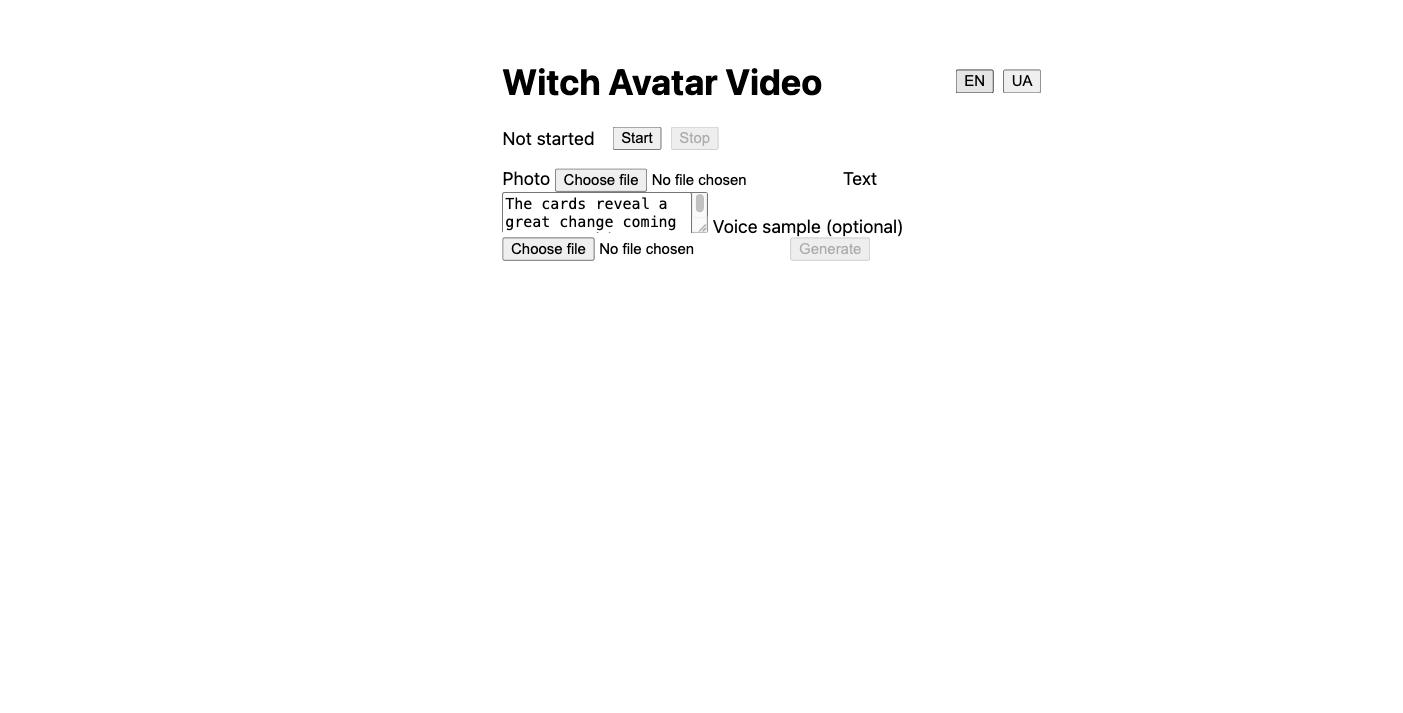
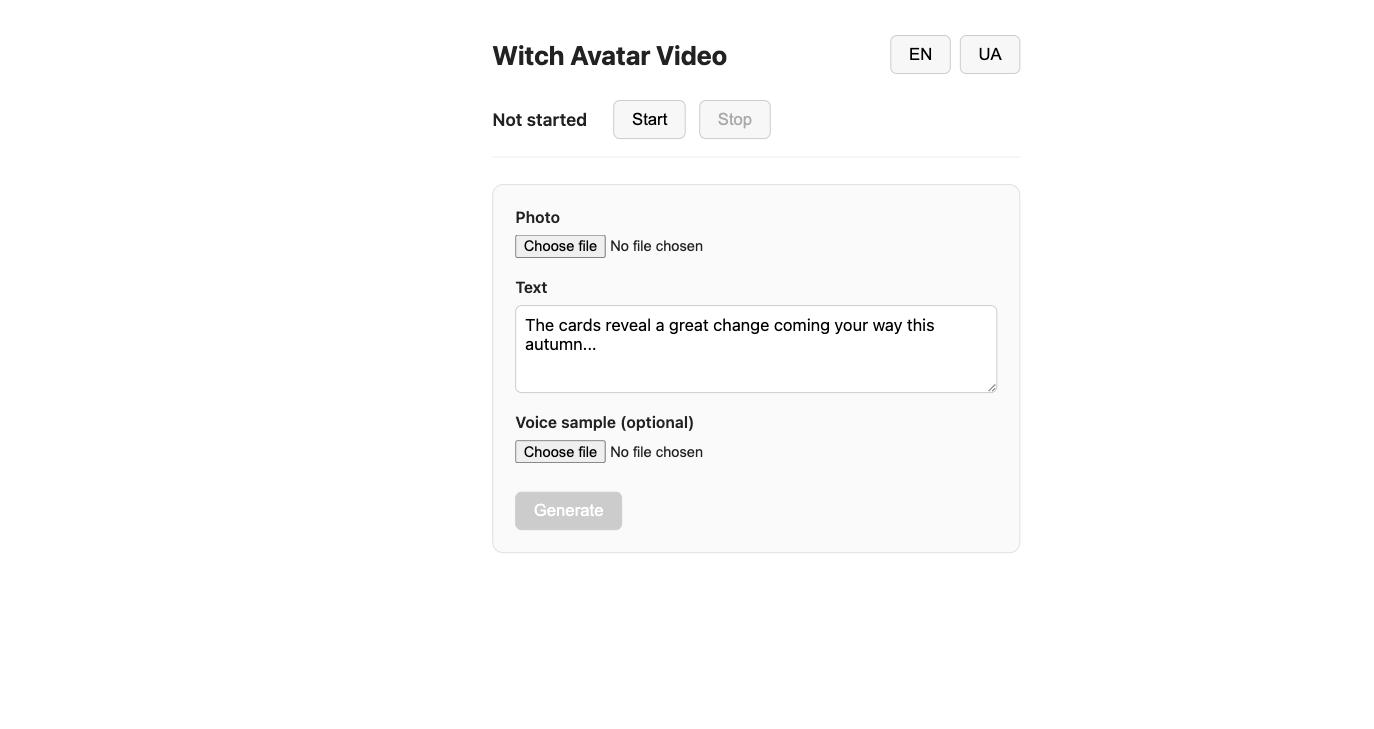
fix(webui): style the generate form and fix flex-layout override
style.css was a 7-line skeleton with no styling for the form itself
(unstyled labels/inputs, no spacing, no card container), so once
revealed the fields ran together on wrapped lines. Separately,
app.js was toggling generate-form's inline display to "block",
which permanently overrode the CSS's `display:flex` (inline style
always wins), so the intended column layout never applied even
after adding real styles. Fixed the JS to set "flex" and added
minimal card/spacing/button styling. Refreshed the README
screenshots to match.

Claude-Session: https://claude.ai/code/session_012Q8dZ6VonVF3QikgwjQVZj

diff --git a/webui/frontend/style.css b/webui/frontend/style.css
@@ -1,7 +1,68 @@
-body { font-family: system-ui, sans-serif; max-width: 480px; margin: 2rem auto; padding: 0 1rem; }
-header { display: flex; justify-content: space-between; align-items: center; }
+body { font-family: system-ui, sans-serif; max-width: 480px; margin: 2rem auto; padding: 0 1rem; color: #222; }
+header { display: flex; justify-content: space-between; align-items: center; margin-bottom: 1.5rem; }
+h1 { font-size: 1.5rem; margin: 0; }
 .lang-switch button { margin-left: 0.25rem; }
-#session-controls { display: flex; gap: 0.5rem; align-items: center; margin-bottom: 1rem; }
-#generate-form { display: flex; flex-direction: column; gap: 0.5rem; }
+
+button {
+  padding: 0.5rem 1rem;
+  border: 1px solid #ccc;
+  border-radius: 6px;
+  background: #f7f7f7;
+  cursor: pointer;
+  font-size: 0.95rem;
+}
+button:hover:not(:disabled) { background: #eee; }
+button:disabled { color: #aaa; cursor: not-allowed; }
+
+#session-controls {
+  display: flex;
+  gap: 0.75rem;
+  align-items: center;
+  margin-bottom: 1.5rem;
+  padding-bottom: 1rem;
+  border-bottom: 1px solid #eee;
+}
+#status-label { font-weight: 600; }
+#elapsed-label { color: #777; font-size: 0.9rem; }
+
+#generate-form {
+  display: flex;
+  flex-direction: column;
+  gap: 0.35rem;
+  padding: 1.25rem;
+  border: 1px solid #e0e0e0;
+  border-radius: 10px;
+  background: #fafafa;
+}
+#generate-form label {
+  display: block;
+  font-weight: 600;
+  font-size: 0.9rem;
+  margin-top: 0.75rem;
+}
+#generate-form label:first-child { margin-top: 0; }
+#generate-form input[type="file"] { margin-top: 0.15rem; }
+#generate-form textarea {
+  width: 100%;
+  min-height: 5rem;
+  margin-top: 0.15rem;
+  padding: 0.5rem;
+  border: 1px solid #ccc;
+  border-radius: 6px;
+  font-family: inherit;
+  font-size: 0.95rem;
+  box-sizing: border-box;
+  resize: vertical;
+}
+#generate-form #generate-btn {
+  margin-top: 1.25rem;
+  align-self: flex-start;
+  background: #2c3e50;
+  color: #fff;
+  border-color: #2c3e50;
+}
+#generate-form #generate-btn:hover:not(:disabled) { background: #1f2c38; }
+#generate-form #generate-btn:disabled { background: #ccc; border-color: #ccc; }
+
 #warning-banner { background: #fff3cd; padding: 0.5rem; margin-top: 1rem; border-radius: 4px; }
-#result-video { width: 100%; margin-top: 1rem; }
+#result-video { width: 100%; margin-top: 1rem; border-radius: 8px; }

diff --git a/webui/frontend/app.js b/webui/frontend/app.js
@@ -55,7 +55,7 @@ function render() {
   document.getElementById("start-btn").disabled = currentState !== State.NOT_STARTED;
   document.getElementById("stop-btn").disabled = currentState === State.NOT_STARTED;
   document.getElementById("generate-form").style.display =
-    (currentState === State.READY || currentState === State.GENERATING) ? "block" : "none";
+    (currentState === State.READY || currentState === State.GENERATING) ? "flex" : "none";
   document.getElementById("generate-btn").disabled = currentState !== State.READY;
 }
 
